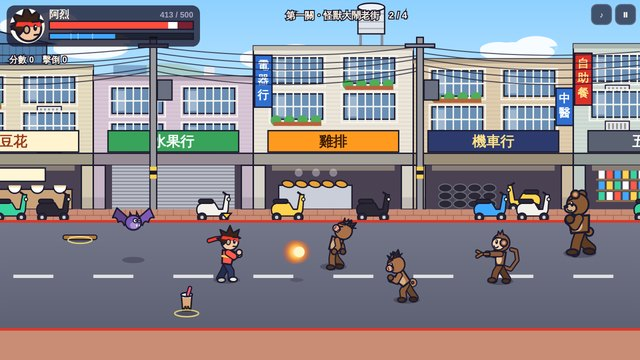
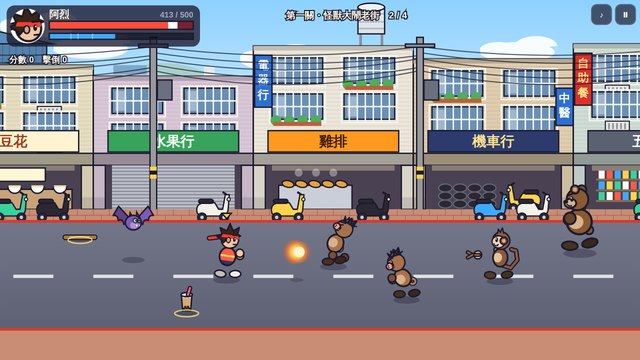
小夥伴大作戰：角色改成漂浮手腳的造型
圓頭、蛋形身體，拳頭和鞋子飄在手腳的位置，不畫手臂和腿。
出拳、踢腿時拳頭和鞋子會伸得更遠，動作比較清楚。主角和怪獸都適用。

Claude-Session: https://claude.ai/code/session_01PoicvAC2ZfJReKYbUdgm4B

diff --git a/brawl/index.html b/brawl/index.html
@@ -656,56 +656,43 @@ function drawFace(c, L, P) {
   }
 }
 
+/* Floating-limb style: round head, small egg body, and fists and shoes that float
+   where the hands and feet would be (no arms or legs are drawn). The skeleton
+   angles in pose() still place the hands and feet. */
+const LIMB = 10, BODY_H = 19;
 function drawBody(c, L, P, f) {
-  const big = L.build === 'big', lw = big ? 9.5 : 7.5, aw = big ? 8.5 : 6.5, tw = big ? 23 : L.build === 'slim' ? 14 : 16;
-  const hip = P2(0, -(TH + SH) + P.by);
-  const leg = a => { const k = P2(hip.x + Math.sin(a[0]) * TH, hip.y + Math.cos(a[0]) * TH), s = a[0] - a[1]; return { k, ft: P2(k.x + Math.sin(s) * SH, k.y + Math.cos(s) * SH), s }; };
-  const top = P2(hip.x + Math.sin(P.lean) * TO, hip.y - Math.cos(P.lean) * TO);
-  const sh = P2(top.x - Math.sin(P.lean) * 3, top.y + Math.cos(P.lean) * 3);
-  const arm = a => { const e = P2(sh.x + Math.sin(a[0]) * UA, sh.y + Math.cos(a[0]) * UA), s2 = a[0] + a[1]; return { e, h: P2(e.x + Math.sin(s2) * FA, e.y + Math.cos(s2) * FA), s2 }; };
-  const ha = P.lean + P.ht, head = P2(top.x + Math.sin(ha) * (HR + 1), top.y - Math.cos(ha) * (HR + 1));
-  const drawLeg = (a, dk) => {
-    const g = leg(a), pc = dk ? L.pantsD : L.pants;
-    if (L.shorts) { seg(c, [hip, g.k], lw + 1, pc); seg(c, [g.k, g.ft], lw - 1, dk ? L.skinD : L.skin); }
-    else seg(c, [hip, g.k, g.ft], lw, pc);
-    blob(c, g.ft.x + Math.sin(g.s + 1.57) * 3, g.ft.y + Math.cos(g.s + 1.57) * 3 + 1, big ? 7 : 6, 3.6, dk ? shade(L.shoe, -0.2) : L.shoe, -g.s * 0.2 + (g.s - 0) * 0.3);
-  };
-  const drawArm = (a, dk) => {
-    const g = arm(a), sc = dk ? L.shirtD : L.shirt, sk = dk ? L.skinD : L.skin;
-    if (L.sleeve === 'long') seg(c, [sh, g.e, g.h], aw, sc);
-    else if (L.sleeve === 'none') seg(c, [sh, g.e, g.h], aw - 0.5, sk);
-    else { seg(c, [g.e, g.h], aw - 1, sk); seg(c, [sh, g.e], aw + 1, sc); }
-    blob(c, g.h.x, g.h.y, big ? 5.2 : 4.3, big ? 5.2 : 4.3, L.glove ? (dk ? shade(L.glove, -0.2) : L.glove) : sk);
-    return g;
-  };
+  const big = L.build === 'big', R = HR, th = big ? 22 : BODY_H, tw = big ? 15 : L.build === 'slim' ? 11 : 12;
+  const hip = P2(0, -LIMB * 2 - 6 + P.by);
+  // a straight arm or a high kick reaches further, so punches and kicks read clearly
+  const reach = (bend, k) => 1 + k * clamp(1 - Math.abs(bend) / 1.4, 0, 1);
+  const leg = (a, side) => { const n = LIMB * (a[0] > 0.9 ? reach(a[1], 0.5) : 1), k = P2(hip.x + side * 4 + Math.sin(a[0]) * n, hip.y + Math.cos(a[0]) * n), s = a[0] - a[1]; return { ft: P2(k.x + Math.sin(s) * n, k.y + Math.cos(s) * n), s }; };
+  const top = P2(hip.x + Math.sin(P.lean) * th, hip.y - Math.cos(P.lean) * th);
+  const sh = P2(lerp(hip.x, top.x, 0.72), lerp(hip.y, top.y, 0.72));
+  const arm = a => { const n = LIMB * reach(a[1], 0.7), e = P2(sh.x + Math.sin(a[0]) * n, sh.y + Math.cos(a[0]) * n), s2 = a[0] + a[1]; return { e, h: P2(e.x + Math.sin(s2) * n, e.y + Math.cos(s2) * n), s2 }; };
+  const ha = P.lean + P.ht, head = P2(top.x + Math.sin(ha) * (R + 3), top.y - Math.cos(ha) * (R + 3));
+  const fist = big ? 7 : 6;
+  const hand = (a, dk) => { const g = arm(a); blob(c, g.h.x, g.h.y, fist, fist, L.glove ? (dk ? shade(L.glove, -0.2) : L.glove) : (dk ? L.skinD : L.skin)); return g; };
+  const foot = (a, side, dk) => { const g = leg(a, side); blob(c, g.ft.x + 3, g.ft.y - 1.5, big ? 9.5 : 8.5, 5.2, dk ? shade(L.shoe, -0.2) : L.shoe, -g.s * 0.3); };
   c.lineCap = 'round'; c.lineJoin = 'round';
-  // things behind the body (long hair, scarf, headband tails)
-  c.save(); c.translate(head.x, head.y); c.rotate(ha); drawHair(c, L, true, f, P); c.restore();
-  if (L.cape) { const w = Math.sin((f ? f.clock : 0) * 0.15) * 3; c.beginPath(); c.moveTo(sh.x - 4, sh.y); c.quadraticCurveTo(sh.x - 18, hip.y + 4 + w, sh.x - 14, hip.y + 14); c.lineTo(hip.x - 2, hip.y + 6); c.closePath(); c.fillStyle = L.cape; c.fill(); c.lineWidth = 2.2; c.strokeStyle = INK; c.stroke(); }
   if (L.tail) drawTail(c, L, hip, f);
-  drawArm(P.al, true);
-  if (f && f.hold && f.hold.kind === 'bow') {}
-  drawLeg(P.ll, true);
-  drawLeg(P.lr, false);
-  // torso
-  const px = Math.cos(P.lean), py = Math.sin(P.lean);
-  const w0 = tw / 2 - 1, w1 = tw / 2 + 1;
-  c.beginPath(); c.moveTo(hip.x - px * w0, hip.y - py * w0); c.lineTo(hip.x + px * w0, hip.y + py * w0);
-  c.lineTo(top.x + px * w1, top.y + py * w1); c.lineTo(top.x - px * w1, top.y - py * w1); c.closePath();
-  c.fillStyle = L.shirt; c.fill(); c.lineWidth = 2.6; c.strokeStyle = INK; c.stroke();
-  if (L.trim) { c.beginPath(); c.moveTo(lerp(hip.x, top.x, 0.55) - px * w1 * 0.9, lerp(hip.y, top.y, 0.55) - py * w1 * 0.9); c.lineTo(lerp(hip.x, top.x, 0.55) + px * w1 * 0.9, lerp(hip.y, top.y, 0.55) + py * w1 * 0.9); c.strokeStyle = L.trim; c.lineWidth = 3; c.stroke(); }
-  if (L.belly) { c.save(); c.translate(lerp(hip.x, top.x, 0.45) + px * w0 * 0.3, lerp(hip.y, top.y, 0.45) + py * w0 * 0.3); c.rotate(P.lean); c.beginPath(); c.ellipse(0, 0, tw * 0.3, TO * 0.36, 0, 0, TAU); c.fillStyle = L.belly; c.fill(); c.restore(); }
-  if (L.belt) { c.beginPath(); c.moveTo(hip.x - px * w0, hip.y - py * w0 - 2); c.lineTo(hip.x + px * w0, hip.y + py * w0 - 2); c.strokeStyle = L.belt; c.lineWidth = 3.5; c.stroke(); }
-  // head
+  c.save(); c.translate(head.x, head.y); c.rotate(ha); drawHair(c, L, true, f, P); c.restore();
+  hand(P.al, true); foot(P.ll, -1, true);
+  // body: a small egg, shirt above and pants below
+  c.save(); c.translate(hip.x, hip.y); c.rotate(P.lean);
+  const egg = () => { c.beginPath(); c.ellipse(0, -th / 2, tw, th / 2 + 4, 0, 0, TAU); };
+  egg(); c.save(); c.clip(); c.fillStyle = L.shirt; c.fillRect(-30, -40, 60, 60);
+  if (L.belly) { c.fillStyle = L.belly; c.beginPath(); c.ellipse(4, -th / 2, tw * 0.6, th * 0.38, 0, 0, TAU); c.fill(); }
+  if (!L.animal) { c.fillStyle = L.pants; c.fillRect(-30, -3, 60, 20); }
+  if (L.trim) { c.fillStyle = L.trim; c.fillRect(-30, -th * 0.62, 60, 3); }
+  if (L.belt) { c.fillStyle = L.belt; c.fillRect(-30, -6, 60, 3.5); }
+  c.restore(); egg(); c.lineWidth = 2.6; c.strokeStyle = INK; c.stroke(); c.restore();
+  foot(P.lr, 1, false);
   c.save(); c.translate(head.x, head.y); c.rotate(ha);
-  if (L.style !== 'hood') blob(c, 0, 0, HR, HR, L.fur || L.skin);
-  drawHair(c, L, false, f, P);
-  drawFace(c, L, P);
-  c.restore();
-  const g = drawArm(P.ar, false);
+  if (L.style !== 'hood') blob(c, 0, 0, R, R, L.fur || L.skin);
+  drawHair(c, L, false, f, P); drawFace(c, L, P); c.restore();
+  const g = hand(P.ar, false);
   if (f && f.hold) drawHeld(c, f.hold, g);
   if (L.sling && !(f && f.hold)) { c.save(); c.translate(g.h.x, g.h.y); c.rotate(-g.s2 + Math.PI); seg(c, [P2(0, 2), P2(0, -8)], 2.5, '#a0662f'); seg(c, [P2(0, -8), P2(-4, -15)], 2.5, '#a0662f'); seg(c, [P2(0, -8), P2(4, -15)], 2.5, '#a0662f'); c.restore(); }
-  if (f && f.look.bow) { c.save(); c.translate(g.h.x, g.h.y); c.rotate(-g.s2 + Math.PI / 2 + Math.PI); c.beginPath(); c.arc(0, 0, 16, -1.2, 1.2); c.strokeStyle = INK; c.lineWidth = 4.5; c.stroke(); c.strokeStyle = '#a0662f'; c.lineWidth = 2.5; c.stroke(); c.restore(); }
   return { head, hip, top };
 }
 
@@ -748,7 +735,7 @@ function drawHeld(c, it, g) {
   if (it.kind === 'stick') {
     const dx = Math.sin(g.s2), dy = Math.cos(g.s2);
     seg(c, [P2(g.h.x - dx * 8, g.h.y - dy * 8), P2(g.h.x + dx * 34, g.h.y + dy * 34)], 4.5, '#b07a3d');
-    blob(c, g.h.x, g.h.y, 4.3, 4.3, '#f3c79c');
+    blob(c, g.h.x, g.h.y, 6, 6, '#f3c79c');
   } else if (it.kind === 'stone') { blob(c, g.h.x, g.h.y - 6, 10, 8, '#9a9aa8'); }
 }
 
@@ -2011,7 +1998,7 @@ function animateCards() {
       const g = c.createLinearGradient(0, 0, 0, 192); g.addColorStop(0, sel ? 'rgba(255,204,51,.25)' : 'rgba(255,255,255,.04)'); g.addColorStop(1, 'rgba(255,255,255,0)'); c.fillStyle = g; c.fillRect(0, 0, 300, 192);
       const fake = { clock: (performance.now() - t0) / 16.7, state: sel ? 'win' : 'idle', st: (performance.now() - t0) / 16.7, look: CHARS[id].look, def: CHARS[id], face: 1, hold: null, vy: 0 };
       c.setTransform(2, 0, 0, 2, 0, 0); c.fillStyle = 'rgba(0,0,0,.25)'; c.beginPath(); c.ellipse(75, 88, 26, 6, 0, 0, TAU); c.fill();
-      c.translate(75, 88); c.scale(CHARS[id].look.build === 'big' ? 1.05 : 1.15, CHARS[id].look.build === 'big' ? 1.05 : 1.15); drawBody(c, CHARS[id].look, pose(fake), fake);
+      c.translate(75, 92); c.scale(CHARS[id].look.build === 'big' ? 0.98 : 1.05, CHARS[id].look.build === 'big' ? 0.98 : 1.05); drawBody(c, CHARS[id].look, pose(fake), fake);
     });
     requestAnimationFrame(loop);
   };

diff --git a/brawl/README.md b/brawl/README.md
@@ -61,7 +61,7 @@
 ## 程式結構
 - 世界座標：`x` 左右、`z` 前後深度、`y` 高度。模擬固定每秒 60 步，與畫面更新率無關。
 - 每個角色都由一個「控制器」填寫同一種 `Input`（移動、跑、攻、跳、防、必殺技）。玩家用 `LocalCtl`（同時聽鍵盤、觸控和所有手把），電腦用 `AICtl`。之後要加多人，只要給第二位玩家一個只聽某一支手把或某一組按鍵的控制器即可；連線對戰也可以從同一個介面接上。
-- 角色是一副小骨架（髖、軀幹、頭、雙手雙腳），每個動作是一組關節角度（`pose()`）。主角和怪獸共用骨架，怪獸只是換了頭（`drawHair` 裡的 `boar`、`monkey`、`bear`、`dragon`）、尾巴和毛色；蝙蝠另外畫（`drawBat`）。
+- 角色是一副小骨架（髖、軀幹、頭、雙手雙腳），每個動作是一組關節角度（`pose()`）。畫的時候只畫圓頭、蛋形的身體，和飄在手腳位置的拳頭與鞋子，不畫手臂和腿（`drawBody()`）；手伸直或踢高時會伸得更遠，出拳、踢腿比較清楚。主角和怪獸共用骨架，怪獸只是換了頭（`drawHair` 裡的 `boar`、`monkey`、`bear`、`dragon`）、尾巴和毛色；蝙蝠另外畫（`drawBat`）。
 - 招式資料：一般攻擊在 `ATK`（起手、判定、收招的影格與打擊範圍），必殺技在 `SKILLS`（耗氣、每一格要做的事、動作）。
 - 關卡在 `STAGES`：每個區域有幾波敵人、地上的道具，魔王區有血量剩一半時的援軍。
 
